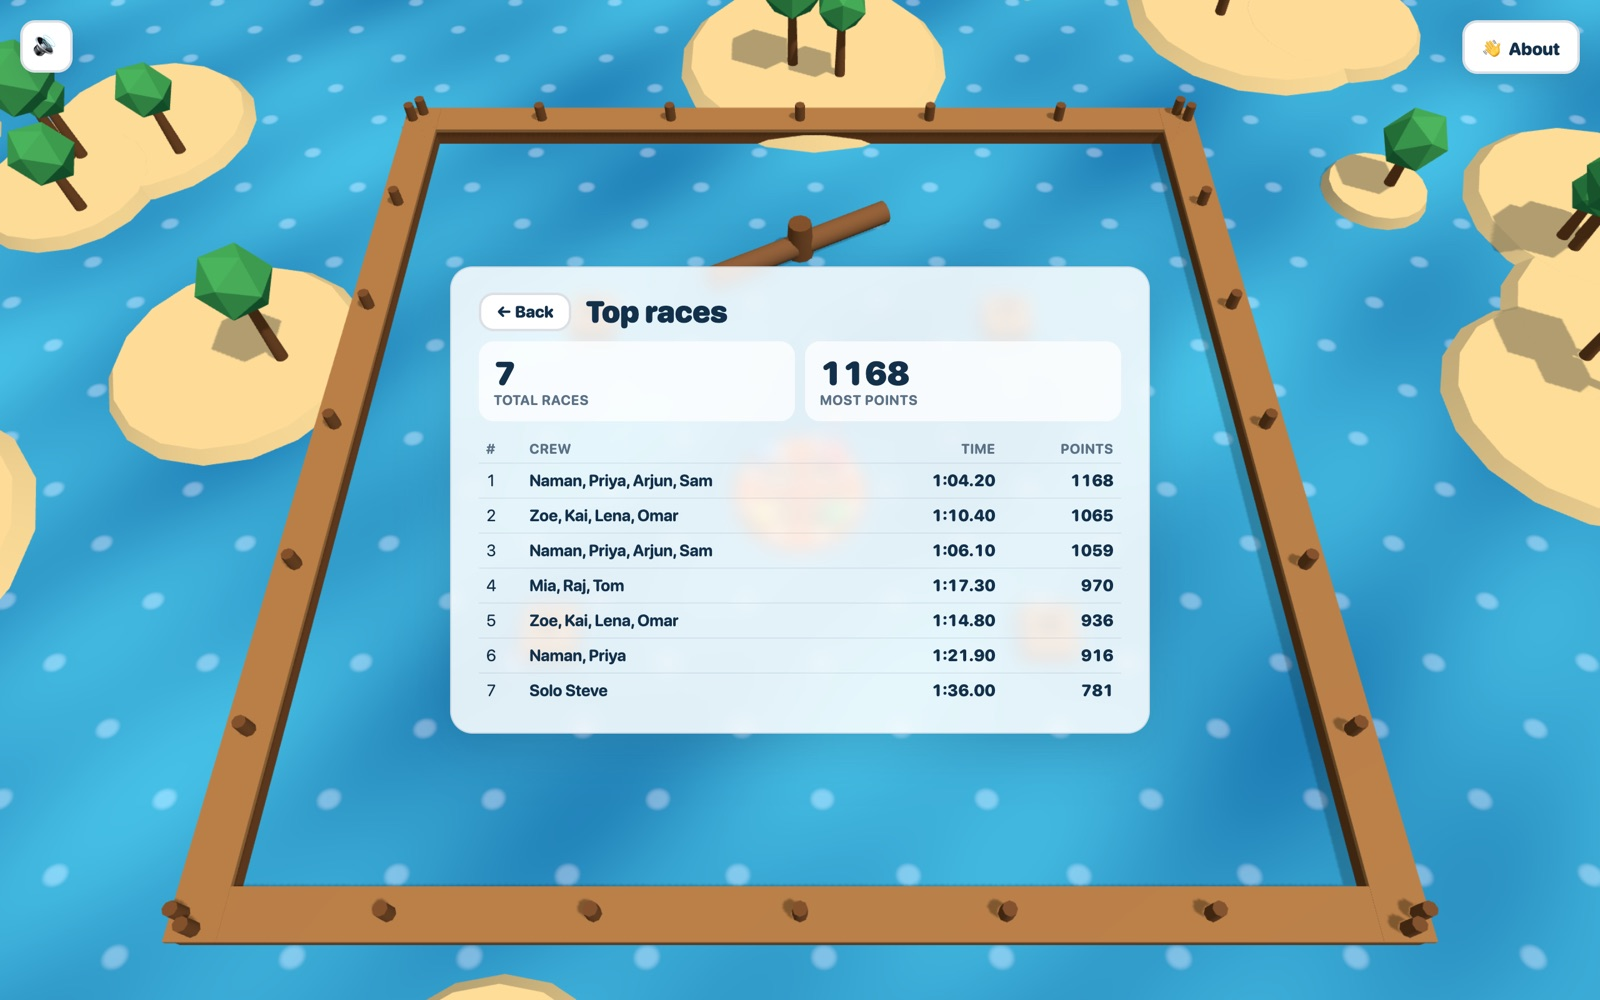
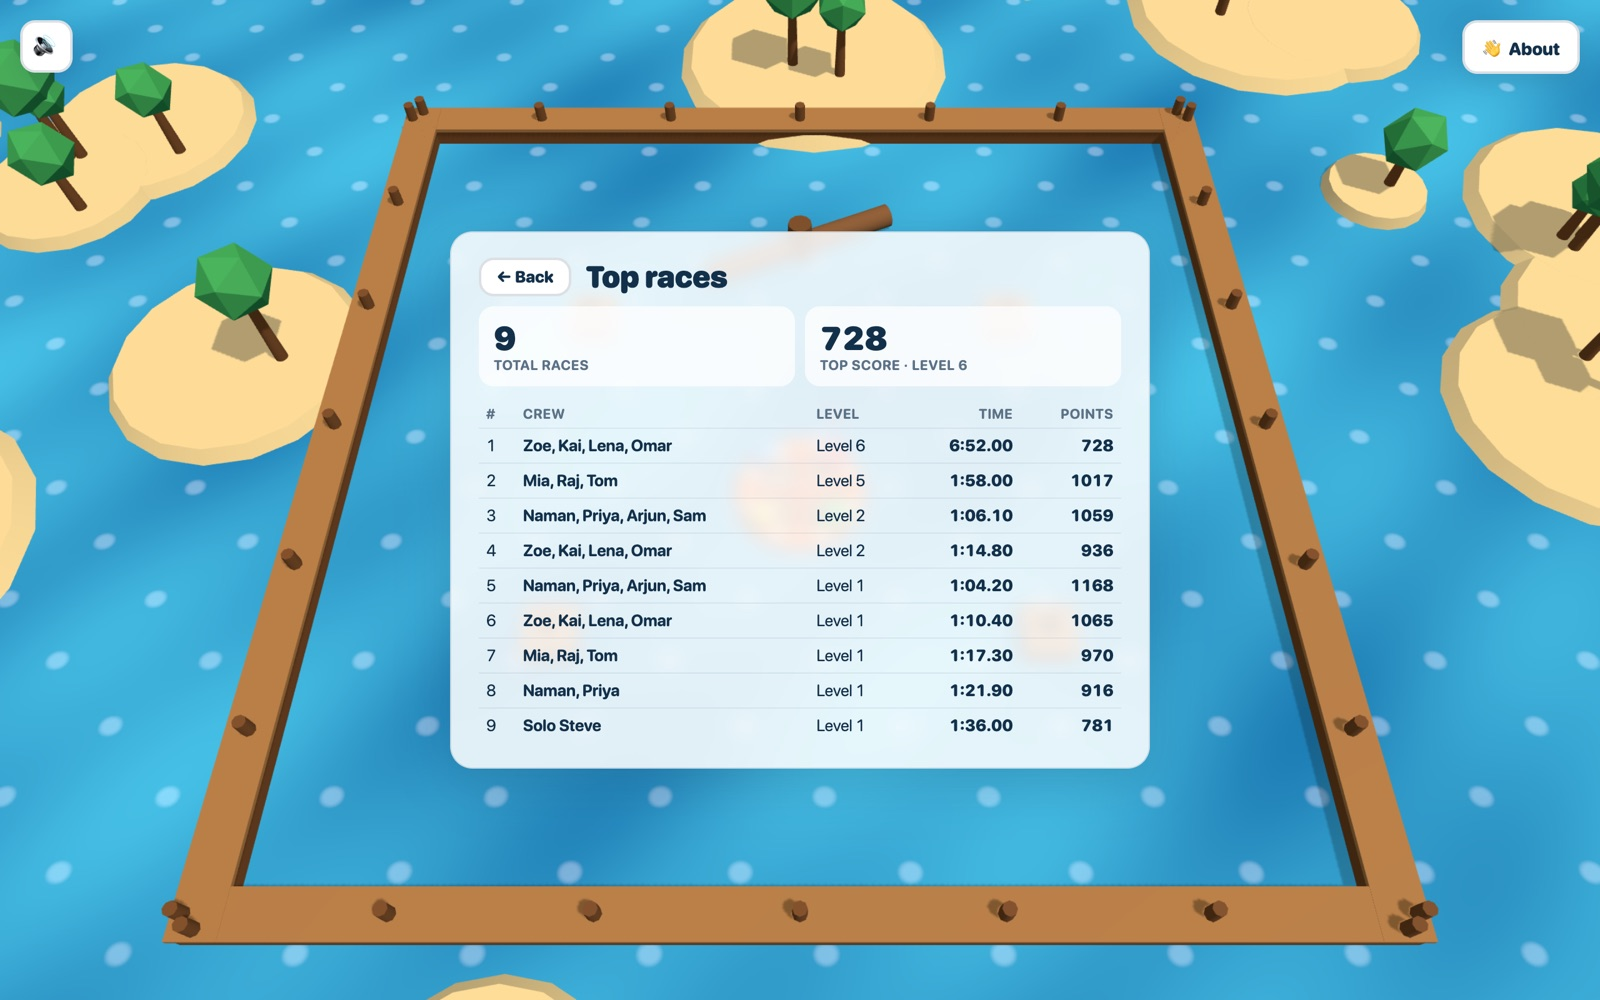
Top races ranks the furthest level first and shows each race's level
The highest level always comes first, however slowly it was finished; points only
decide within a level. The top score tile names its level too.

diff --git a/server/db.js b/server/db.js
@@ -6,6 +6,7 @@ import { createHash, randomBytes } from 'node:crypto';
 import { DatabaseSync } from 'node:sqlite';
 import { mkdirSync } from 'node:fs';
 import { join } from 'node:path';
+import { LEVELS } from '../src/sim/levels.js';
 
 const today = () => new Date().toISOString().slice(0, 10); // UTC
 
@@ -71,9 +72,11 @@ export function openDb(dataDir) {
     SELECT g.level, MIN(g.time_ms) AS best_ms, MAX(g.points) AS best_points, COUNT(*) AS races
     FROM games g, json_each(g.players) p WHERE lower(p.value) = lower(?) GROUP BY g.level`);
   const totals = db.prepare(`SELECT COUNT(*) AS n FROM games`);
+  // the furthest level always ranks first, however slowly it was finished; points only decide within a level
+  const levelRank = Object.values(LEVELS).filter((l) => l.number).map((l) => `WHEN '${l.id}' THEN ${l.number}`).join(' ');
   const topRaces = db.prepare(`
     SELECT id, level, room, players, crew_size, time_ms, points, deaths, finished_at
-    FROM games ORDER BY points DESC, finished_at ASC LIMIT ?`);
+    FROM games ORDER BY CASE level ${levelRank} ELSE 0 END DESC, points DESC, finished_at ASC LIMIT ?`);
 
   const row = (r) => ({ ...r, players: JSON.parse(r.players) });
 
@@ -96,10 +99,9 @@ export function openDb(dataDir) {
       if (name) for (const r of cleared.all(name)) out[r.level] = { best_ms: r.best_ms, best_points: r.best_points, races: r.races };
       return out;
     },
-    // how many races have been run, and the highest scoring ones across every level and crew
+    // how many races have been run, and the best ones: furthest level first, then most points
     history(limit = 10) {
-      const games = topRaces.all(limit).map(row);
-      return { total: totals.get().n, topPoints: games[0]?.points ?? 0, games };
+      return { total: totals.get().n, games: topRaces.all(limit).map(row) };
     },
     recordVisit(ip, userAgent, day = today()) {
       addView.run(day);

diff --git a/scripts/net-test.js b/scripts/net-test.js
@@ -186,10 +186,15 @@ try {
   const lb1 = await (await fetch(`http://127.0.0.1:${server.port}/api/leaderboard?level=canal&crew=1`)).json();
   check(!lb1.top.some((g) => g.id === r.id), '4-player games stay off the solo leaderboard');
   const hist = await (await fetch(`http://127.0.0.1:${server.port}/api/history`)).json();
-  check(hist.total === 2 && hist.games.length === 2 && hist.topPoints === hist.games[0].points && hist.games[0].points >= hist.games[1].points && !('byLevel' in hist) && !('mine' in hist),
-    'top races API gives the total and the races, highest score first, with no per-player or per-level counts');
+  check(hist.total === 2 && hist.games.length === 2 && hist.games[0].points >= hist.games[1].points && !('byLevel' in hist) && !('mine' in hist),
+    'top races API gives the total and the races, most points first within a level, with no per-player or per-level counts');
   for (let i = 0; i < 12; i++) server.db.saveGame({ level: 'canal', room: '0000', players: ['Filler'], crewSize: 1, timeMs: 60000, points: 5 + i, deaths: 0, startedAt: new Date().toISOString(), finishedAt: new Date().toISOString() });
-  check((await (await fetch(`http://127.0.0.1:${server.port}/api/history`)).json()).games.length === 10, 'top races stops at 10');
+  const save = (level, points) => server.db.saveGame({ level, room: '0000', players: ['Slowpoke'], crewSize: 1, timeMs: 600000, points, deaths: 0, startedAt: new Date().toISOString(), finishedAt: new Date().toISOString() });
+  save('wells', 500);
+  save('inferno', 1);
+  const ranked = (await (await fetch(`http://127.0.0.1:${server.port}/api/history`)).json()).games;
+  check(ranked.length === 10, 'top races stops at 10');
+  check(ranked[0].level === 'inferno' && ranked[0].points === 1 && ranked[1].level === 'wells', 'the furthest level ranks first, however few points it scored');
 
   a.inbox.length = 0;
   a.send({ t: 'lobby' });

diff --git a/src/main.js b/src/main.js
@@ -639,7 +639,9 @@ async function renderHistoryPage() {
     return;
   }
   stats.textContent = '';
-  for (const [k, v] of [['Total races', h.total], ['Most points', h.topPoints]]) {
+  const levelOf = (g) => (LEVELS[g.level]?.number ? `Level ${LEVELS[g.level].number}` : g.level);
+  const best = h.games[0];
+  for (const [k, v] of [['Total races', h.total], [best ? `Top score · ${levelOf(best)}` : 'Top score', best ? best.points : 0]]) {
     const d = document.createElement('div');
     d.className = 'stat';
     const vv = document.createElement('div');
@@ -653,7 +655,7 @@ async function renderHistoryPage() {
   }
   table.textContent = '';
   const head = table.insertRow();
-  for (const [t, cls] of [['#', ''], ['Crew', ''], ['Time', 'num'], ['Points', 'num']]) {
+  for (const [t, cls] of [['#', ''], ['Crew', ''], ['Level', 'level'], ['Time', 'num'], ['Points', 'num']]) {
     const th = document.createElement('th');
     th.textContent = t;
     th.className = cls;
@@ -661,14 +663,14 @@ async function renderHistoryPage() {
   }
   if (!h.games.length) {
     const td = table.insertRow().insertCell();
-    td.colSpan = 4;
+    td.colSpan = 5;
     td.textContent = 'No races yet.';
     td.parentElement.className = 'empty-row';
     return;
   }
   h.games.forEach((g, i) => {
     const tr = table.insertRow();
-    for (const [text, cls] of [[String(i + 1), ''], [g.players.join(', '), 'crew'], [fmtMs(g.time_ms), 'num'], [String(g.points), 'num']]) {
+    for (const [text, cls] of [[String(i + 1), ''], [g.players.join(', '), 'crew'], [levelOf(g), 'level'], [fmtMs(g.time_ms), 'num'], [String(g.points), 'num']]) {
       const td = tr.insertCell();
       td.textContent = text;
       td.className = cls;

diff --git a/server/index.js b/server/index.js
@@ -82,7 +82,7 @@ export async function startServer({
         const cleared = db.progress(name);
         return json(res, { name, cleared, unlocked: unlockedLevels(Object.keys(cleared)) });
       }
-      // how many races have been run, and the ten highest scores
+      // how many races have been run, and the ten best: furthest level first, then most points
       if (url.pathname === '/api/history') return json(res, db.history(10));
       if (url.pathname === '/api/ping' && req.method === 'POST') {
         const id = url.searchParams.get('id') || '';

diff --git a/src/style.css b/src/style.css
@@ -169,6 +169,7 @@ input {
 .board-table td.num { text-align: right; font-weight: 800; }
 .board-table tr.mine td { background: rgba(255, 138, 61, 0.16); }
 .board-table .crew { font-weight: 700; }
+.board-table .level { white-space: nowrap; }
 .board-table .when { color: var(--muted); font-size: 11px; white-space: nowrap; }
 .board-table .empty-row td { color: var(--muted); text-align: center; padding: 14px; }
 

diff --git a/README.md b/README.md
@@ -37,7 +37,7 @@ other and nothing happens. **The secret isn't farting harder, it's farting toget
 <table>
   <tr>
     <td width="50%"><img src="docs/screenshots/level5.jpg" alt="Level 5, The Holey Road: dark holes in the track with arrows pointing into them"><br><b>The Holey Road.</b> Holes that drag you in if you get close. Even the rubber ducks can't escape.</td>
-    <td width="50%"><img src="docs/screenshots/history.jpg" alt="The top races page: total races and the ten highest scores"><br><b>Top races.</b> The total races run, and the ten highest scores.</td>
+    <td width="50%"><img src="docs/screenshots/history.jpg" alt="The top races page: total races, the top score and the ten best races with their levels"><br><b>Top races.</b> The ten best races. The furthest level always ranks first, then the most points.</td>
   </tr>
 </table>
 
